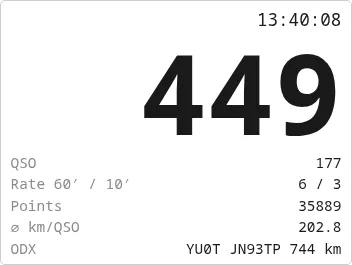
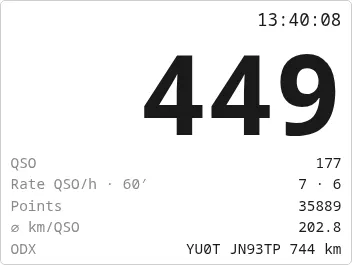
Review fixes for the CQ repeat and macros; docs for the contest notes
- CQ repeat only in RUN (the S&P slot is "{CALL} DE {MYCALL}"); it ends when a CQ
  sends nothing, so it can't hang "on".
- Macro-empty and dropped-character notices show at once with the macros in the strip.
- Esc on the log's other screens also stops the radio's voice memory; help and the
  manual take F5–F12 / Esc too.
- The macro editor in Settings in F-key order, as the strip.
- CHANGELOG [Unreleased], help, manual (cs/en) and its QSO list, contest panel and
  keyer screenshots.

diff --git a/web/public/manual/en.html b/web/public/manual/en.html
@@ -94,7 +94,7 @@
 </div>
 <p>In a VHF contest the <b>QRV</b> chip shows the other bands the station is usually on (from the database). Bands where you already have a QSO with it are struck out, so you see at once where to move it next.</p>
 <figure class="crop"><img src="img/en/logging-qrv.webp" alt="QRV bands" width="390" height="196" loading="lazy"><figcaption>OK1EM on 2 m: QRV on 70 cm up to 122 GHz, 23 cm and 3 cm already worked.</figcaption></figure>
-<p>A <b>dupe</b> turns the whole line black. A dupe is the same call on the same band and mode; in a VHF contest on the same band (any mode), in a satellite log on the same satellite. It can still be logged; in a VHF contest it scores 0 points.</p>
+<p>A <b>dupe</b> turns the whole line black. A dupe is the same call on the same band and mode; in a VHF contest on the same band (any mode), in a satellite log on the same satellite. It can still be logged; in a VHF contest it scores 0 points. In a VHF contest kQSO asks before logging a dupe; confirmed, the new QSO counts and the earlier one on the band becomes <b>ERROR</b> (see <a href="#contest">VHF contest</a>).</p>
 <figure class="crop"><img src="img/en/logging-dupe.webp" alt="Dupe" width="390" height="170" loading="lazy"><figcaption>OK1OTL is already in the log on 2 m: the line is inverted.</figcaption></figure>
 
 <h3 id="band">Changing band and mode</h3>
@@ -124,7 +124,7 @@
 <p>A single letter alone on the line, then Enter. The preview under the line shows what will happen before you press Enter.</p>
 <table>
 <tr><td><code>W</code></td><td>discard the unfinished QSO</td></tr>
-<tr><td><code>D</code></td><td>delete the last saved QSO (asks first)</td></tr>
+<tr><td><code>D</code></td><td>delete the last saved QSO (asks first); in a VHF contest it only strikes it out (ERROR)</td></tr>
 <tr><td><code>E</code></td><td>edit the last saved QSO</td></tr>
 <tr><td><code>H</code></td><td>help</td></tr>
 <tr><td><code>O</code></td><td>open the <a href="#chat">ON4KST chat</a> (VHF contest log)</td></tr>
@@ -134,7 +134,8 @@
 <p><b>Esc</b> clears the line being typed (e.g. a call you only looked up).</p>
 
 <h3>QSO list and editing</h3>
-<p><b>QSO n ›</b> opens the QSO list, newest first. Tap a QSO to edit or delete it. In a VHF contest the list has a band switch, points per QSO and the band's score line; at the top are <b>Map</b> and <b>Statistics</b>.</p>
+<p><b>QSO n ›</b> opens the QSO list, newest first. Tap a QSO to edit or delete it (in a VHF contest, strike it out). In a VHF contest the list has a band switch, points per QSO and the band's score line; at the top are <b>Map</b> and <b>Statistics</b>.</p>
+<p>The <b>search</b> line above the list filters the QSOs by part of the call, locator or a serial (sent or received): <code>OK1</code>, <code>JN6</code>, <code>018</code>. With a hardware keyboard the cursor is already in it; Enter with one QSO left opens it for editing, Esc clears the search. It stays when you come back from the edit.</p>
 <div class="figs">
 <figure class="phone"><img src="img/en/qsolist.webp" alt="QSO list" width="390" height="844" loading="lazy"><figcaption>QSO list with points and the band score.</figcaption></figure>
 <figure class="phone"><img src="img/en/qsoedit.webp" alt="Edit QSO" width="390" height="844" loading="lazy"><figcaption>Editing a QSO.</figcaption></figure>
@@ -151,6 +152,7 @@
 
 <h2 id="contest">4. VHF contest and ON4KST chat</h2>
 <p>A <b>VHF contest</b> log scores the QSOs (1 point per km between locator centres, IARU R1; VKV PA and FM pohár by large-square rings), checks dupes per band and numbers your QSOs. The next serial to give is boxed in the header; the numbering is shared by all bands.</p>
+<p>A VHF contest <b>never deletes</b> a QSO. The <code>D</code> command or <b>Strike out (ERROR)</b> in the QSO edit crosses it out: it stays in the log with its sent serial and 0 points, is an <code>ERROR</code> row in the EDI (so the sent serials stay in sequence, as REG1TEST wants) and counts for nothing — points, dupes, statistics, map, the 6-hour window, the ADIF export and Wavelog. <b>Restore</b> brings it back. A confirmed dupe does the same to the earlier QSO: the repeat counts.</p>
 <p>In the <b>6 hours</b> entry (on 2 m, 70 cm, 6 m and 4 m) kQSO keeps the six-hour window for each band separately:</p>
 <ul>
 <li>the window starts with the band's first QSO and the header shows the time left (<b>6H 0:29</b>);</li>
@@ -162,7 +164,7 @@
 <figure class="crop"><img src="img/en/logging-6h-header.webp" alt="6-hour header" width="390" height="48" loading="lazy"><figcaption>6 hours: 0:29 left.</figcaption></figure>
 
 <h3>Contest panel</h3>
-<p>On a tablet or computer in landscape, with the system keyboard or none (Settings → Keyboard for logging → None), kQSO shows the <b>contest panel</b> on the right: the number to give in big digits, the UTC clock, the band's QSO count, the rate over the last 60 and 10 minutes, points, the average and the ODX.</p>
+<p>On a tablet or computer in landscape, with the system keyboard or none (Settings → Keyboard for logging → None), kQSO shows the <b>contest panel</b> on the right: the number to give in big digits, the UTC clock, the band's QSO count, the rate, points, the average and the ODX. The <b>rate</b> is live: first the QSOs per hour from the band's last 10 (from the oldest of them to now, so it falls while nothing is worked), then the QSOs of the last 60 minutes.</p>
 <figure class="wide"><img src="img/en/panel-tablet.webp" alt="Contest panel on a tablet" width="1280" height="800" loading="lazy"><figcaption>Tablet in landscape with a hardware keyboard: recent QSOs on the left, the contest panel on the right.</figcaption></figure>
 <figure class="crop small"><img src="img/en/panel.webp" alt="Contest panel" width="352" height="265" loading="lazy"><figcaption>The contest panel.</figcaption></figure>
 
@@ -317,13 +319,14 @@
 <p>Tuning from the line, CW macros through the radio and voice memories work as with the other connections (see above).</p>
 
 <h3>M5 CW keyer</h3>
-<p>The <a href="https://keyer.ok1cdj.com/build.html">M5-ESP32-keyer</a> is a home-built keyer; parts, schematics and the firmware flasher are at <a href="https://keyer.ok1cdj.com/build.html">keyer.ok1cdj.com</a>. It connects over Bluetooth (Android and iOS apps, Chrome / Edge): Settings → M5 keyer → CW keying Yes → Connect. In CW the strip then offers the macros CQ, EX, TU, MY, LOC/REF and ?, and the header shows RUN or S&amp;P and the speed. With a radio that keys CW over CI-V you don't need the M5 keyer (see <a href="#radio">Radio</a>).</p>
+<p>The <a href="https://keyer.ok1cdj.com/build.html">M5-ESP32-keyer</a> is a home-built keyer; parts, schematics and the firmware flasher are at <a href="https://keyer.ok1cdj.com/build.html">keyer.ok1cdj.com</a>. It connects over Bluetooth (Android and iOS apps, Chrome / Edge): Settings → M5 keyer → CW keying Yes → Connect. In CW the strip then offers the macros CQ, EX, TU, ?, MY and LOC/REF (in the order of F5–F8, F11, F12; with a hardware keyboard each button shows its F key in its corner), and the header shows RUN or S&amp;P and the speed. With a radio that keys CW over CI-V you don't need the M5 keyer (see <a href="#radio">Radio</a>).</p>
 <ul>
-<li>Each profile has its own macros for RUN (I call CQ) and S&amp;P (I answer). Variables: <code>{CALL}</code> <code>{MYCALL}</code> <code>{MYLOC}</code> <code>{MYREF}</code> <code>{RST}</code> <code>{NR}</code> <code>{LOC}</code> <code>{REF}</code> <code>{HI}</code> (GM / GA / GE by local time).</li>
+<li>Each profile has its own macros for RUN (I call CQ) and S&amp;P (I answer). Variables: <code>{CALL}</code> <code>{MYCALL}</code> <code>{MYLOC}</code> <code>{MYREF}</code> <code>{RST}</code> <code>{NR}</code> <code>{LOC}</code> <code>{REF}</code> <code>{HI}</code> (GM / GA / GE by local time). The report and serial go out as cut numbers: <code>{RST}</code> 599 → 5NN, 559 → 55N, <code>{NR}</code> 018 → T18; the log and the EDI keep the digits.</li>
+<li><b>CQ repeat</b> (RUN): <code>A3</code> sets a 3 s gap after each CQ ends (A1–A30, remembered); F5 or CQ then calls round until Esc, STOP or another macro. The header shows <b>RUN ↻3</b>, inverted while calling. <code>A0</code> turns it off, <code>A</code> shows it.</li>
 <li><b>ESM</b> (as in N1MM): Enter sends the macros by the state of the QSO. Switch it on in Settings or with the <code>ESM</code> command.</li>
 <li>On the line: <code>R</code> / <code>S</code> RUN / S&amp;P mode, <code>S20</code> speed 20 WPM, <code>C</code> reconnect, <code>K PSE QRS</code> sends the text, <code>K</code> alone starts the CW keyboard (what you type goes on the air). Esc or STOP stops sending.</li>
 </ul>
-<figure class="crop"><img src="img/en/settings-keyer-on.webp" alt="M5 keyer" width="374" height="1540" loading="lazy"><figcaption>M5 keyer: speed, ESM and the VHF contest / RUN macros.</figcaption></figure>
+<figure class="crop"><img src="img/en/settings-keyer-on.webp" alt="M5 keyer" width="374" height="1539" loading="lazy"><figcaption>M5 keyer: speed, ESM and the VHF contest / RUN macros.</figcaption></figure>
 
 <h3 id="cw">CW decoder</h3>
 <p>kQSO decodes CW from the radio's audio with <a href="https://github.com/e04/web-deep-cw-decoder">DeepCW</a>, a neural network (by e04, MIT licence). The decoded text runs under the log's header, and a tap on a call, report, serial or locator puts it into the line. It runs in the <b>Android</b> and <b>iOS</b> apps and on the web in <b>Chrome</b> or <b>Edge</b> on a computer; Firefox and Safari don't have it.</p>
@@ -350,7 +353,7 @@
 <tr><td><kbd>Alt+M</kbd></td><td>mode CW → SSB → FM</td></tr>
 <tr><td><kbd>Alt+N</kbd> / <kbd>Alt+P</kbd></td><td>next / previous band</td></tr>
 <tr><td><kbd>Alt+L</kbd> / <kbd>Alt+Q</kbd></td><td>QSO list / back to the logs</td></tr>
-<tr><td><kbd>F5</kbd> <kbd>F6</kbd> <kbd>F7</kbd> <kbd>F8</kbd> <kbd>F11</kbd> <kbd>F12</kbd></td><td>macros CQ EX TU ? MY INFO; in SSB / FM F5–F8 the voice memories T1–T4</td></tr>
+<tr><td><kbd>F5</kbd> <kbd>F6</kbd> <kbd>F7</kbd> <kbd>F8</kbd> <kbd>F11</kbd> <kbd>F12</kbd></td><td>macros CQ EX TU ? MY INFO; in SSB / FM F5–F8 the voice memories T1–T4. They also work in the chat, map, QSO list, statistics and help; Esc stops sending there</td></tr>
 <tr><td><kbd>PgUp</kbd> / <kbd>PgDn</kbd></td><td>CW speed ±2 WPM</td></tr>
 <tr><td><kbd>Alt+R</kbd> <kbd>Alt+S</kbd> <kbd>Alt+C</kbd> <kbd>Alt+K</kbd></td><td>RUN / S&amp;P / connect the keyer / CW keyboard</td></tr>
 <tr><td><kbd>Ctrl+M</kbd></td><td>ESM on / off</td></tr>

diff --git a/web/public/manual/cs.html b/web/public/manual/cs.html
@@ -94,7 +94,7 @@
 </div>
 <p>Ve VKV závodě ukáže štítek <b>QRV</b> další pásma, na kterých stanice bývá (z databáze). Pásma, kde už s ní spojení máš, jsou přeškrtnutá, takže hned vidíš, kam ji ještě přetáhnout.</p>
 <figure class="crop"><img src="img/cs/logging-qrv.webp" alt="QRV pásma" width="390" height="196" loading="lazy"><figcaption>OK1EM na 2 m: QRV i na 70 cm až 122 GHz, 23 cm a 3 cm už uděláno.</figcaption></figure>
-<p><b>Duplicita</b> zčerná celý řádek. Duplicita je stejná značka na stejném pásmu a módu; ve VKV závodě na stejném pásmu (na módu nezáleží), v satelitním logu na stejné družici. Zapsat ji jde, ve VKV závodě má 0 bodů.</p>
+<p><b>Duplicita</b> zčerná celý řádek. Duplicita je stejná značka na stejném pásmu a módu; ve VKV závodě na stejném pásmu (na módu nezáleží), v satelitním logu na stejné družici. Zapsat ji jde, ve VKV závodě má 0 bodů. Ve VKV závodě se kQSO před zapsáním duplicity zeptá; po potvrzení platí nové spojení a to předchozí na pásmu se označí jako <b>ERROR</b> (viz <a href="#contest">VKV závod</a>).</p>
 <figure class="crop"><img src="img/cs/logging-dupe.webp" alt="Duplicita" width="390" height="170" loading="lazy"><figcaption>OK1OTL už v logu na 2 m je: řádek je inverzní.</figcaption></figure>
 
 <h3 id="band">Přepnutí pásma a módu</h3>
@@ -124,7 +124,7 @@
 <p>Jedno písmeno samotné na řádku a Enter. Náhled pod řádkem ukáže, co se stane, ještě před Enterem.</p>
 <table>
 <tr><td><code>W</code></td><td>zahodí rozepsané spojení</td></tr>
-<tr><td><code>D</code></td><td>smaže poslední zapsané spojení (nejdřív se zeptá)</td></tr>
+<tr><td><code>D</code></td><td>smaže poslední zapsané spojení (nejdřív se zeptá); ve VKV závodě ho jen zneplatní (ERROR)</td></tr>
 <tr><td><code>E</code></td><td>upraví poslední zapsané spojení</td></tr>
 <tr><td><code>H</code></td><td>nápověda</td></tr>
 <tr><td><code>O</code></td><td>otevře <a href="#chat">ON4KST chat</a> (log VKV závodu)</td></tr>
@@ -134,7 +134,8 @@
 <p><b>Esc</b> smaže rozepsaný řádek (třeba značku, kterou si jen ověřuješ v logu).</p>
 
 <h3>Seznam QSO a úprava</h3>
-<p><b>QSO n ›</b> otevře seznam spojení, nejnovější nahoře. Klepnutím na spojení ho upravíš nebo smažeš. Ve VKV závodě má seznam přepínač pásem, body u každého spojení a řádek se skóre pásma; nahoře jsou tlačítka <b>Mapa</b> a <b>Statistika</b>.</p>
+<p><b>QSO n ›</b> otevře seznam spojení, nejnovější nahoře. Klepnutím na spojení ho upravíš nebo smažeš (ve VKV závodě zneplatníš). Ve VKV závodě má seznam přepínač pásem, body u každého spojení a řádek se skóre pásma; nahoře jsou tlačítka <b>Mapa</b> a <b>Statistika</b>.</p>
+<p>Řádek <b>hledání</b> nad seznamem filtruje spojení podle části značky, lokátoru nebo čísla (odeslaného i přijatého): <code>OK1</code>, <code>JN6</code>, <code>018</code>. S hardwarovou klávesnicí v něm je kurzor hned; Enter, když zbude jediné spojení, ho otevře k úpravě, Esc hledání smaže. Po návratu z úpravy hledání zůstane.</p>
 <div class="figs">
 <figure class="phone"><img src="img/cs/qsolist.webp" alt="Seznam QSO" width="390" height="844" loading="lazy"><figcaption>Seznam QSO s body a skóre pásma.</figcaption></figure>
 <figure class="phone"><img src="img/cs/qsoedit.webp" alt="Úprava QSO" width="390" height="844" loading="lazy"><figcaption>Úprava spojení.</figcaption></figure>
@@ -151,6 +152,7 @@
 
 <h2 id="contest">4. VKV závod a ON4KST chat</h2>
 <p>Log s profilem <b>VKV závod</b> počítá body (1 bod za km mezi středy lokátorů podle IARU R1; VKV PA a FM pohár po prstencích velkých čtverců), hlídá duplicity po pásmech a čísluje tvoje spojení. Další odesílané číslo je v hlavičce v rámečku; číslování je společné pro všechna pásma.</p>
+<p>Ve VKV závodě se spojení <b>nikdy nemaže</b>. Příkaz <code>D</code> nebo <b>Zneplatnit (ERROR)</b> v úpravě spojení ho přeškrtne: zůstane v logu se svým odeslaným číslem a 0 body, v EDI je jako řádek <code>ERROR</code> (aby odeslaná čísla šla po sobě, jak chce REG1TEST) a nepočítá se do bodů, duplicit, statistiky, mapy, okna 6 hodin ani do exportu ADIF a Wavelogu. <b>Obnovit</b> ho vrátí. Stejně dopadne předchozí spojení, když potvrdíš duplicitu: platí to opakované.</p>
 <p>V kategorii <b>6 hodin</b> (na 2 m, 70 cm, 6 m a 4 m) hlídá kQSO šestihodinové okno pro každé pásmo zvlášť:</p>
 <ul>
 <li>okno začíná prvním spojením na pásmu a hlavička ukazuje zbývající čas (<b>6H 0:29</b>);</li>
@@ -162,7 +164,7 @@
 <figure class="crop"><img src="img/cs/logging-6h-header.webp" alt="Hlavička 6h" width="390" height="48" loading="lazy"><figcaption>6 hodin: zbývá 0:29.</figcaption></figure>
 
 <h3>Závodní panel</h3>
-<p>Na tabletu nebo počítači na šířku, se systémovou klávesnicí nebo bez klávesnice (Nastavení → Klávesnice pro logování → Žádná), ukáže kQSO vpravo <b>závodní panel</b>: velké číslo, které dáváš protistanici, hodiny UTC, počet QSO na pásmu, rate za posledních 60 a 10 minut, body, průměr a ODX.</p>
+<p>Na tabletu nebo počítači na šířku, se systémovou klávesnicí nebo bez klávesnice (Nastavení → Klávesnice pro logování → Žádná), ukáže kQSO vpravo <b>závodní panel</b>: velké číslo, které dáváš protistanici, hodiny UTC, počet QSO na pásmu, rate, body, průměr a ODX. <b>Rate</b> je živý: první číslo je QSO za hodinu z posledních 10 spojení na pásmu (od nejstaršího z nich do teď, takže bez spojení klesá), druhé počet QSO za posledních 60 minut.</p>
 <figure class="wide"><img src="img/cs/panel-tablet.webp" alt="Závodní panel na tabletu" width="1280" height="800" loading="lazy"><figcaption>Tablet na šířku s hardwarovou klávesnicí: poslední spojení vlevo, závodní panel vpravo.</figcaption></figure>
 <figure class="crop small"><img src="img/cs/panel.webp" alt="Závodní panel" width="352" height="265" loading="lazy"><figcaption>Závodní panel.</figcaption></figure>
 
@@ -317,9 +319,10 @@
 <p>Ladění z řádku, CW makra přes rádio a hlasové paměti fungují stejně jako u ostatních připojení (viz výše).</p>
 
 <h3>CW klíčovač M5</h3>
-<p>Klíčovač <a href="https://keyer.ok1cdj.com/build.html">M5-ESP32-keyer</a> je klíčovač na stavbu; díly, schémata a nahrání firmwaru najdeš na <a href="https://keyer.ok1cdj.com/build.html">keyer.ok1cdj.com</a>. Připojuje se přes Bluetooth (aplikace pro Android a iOS, Chrome / Edge): Nastavení → Klíčovač M5 → CW klíčování Ano → Připojit. V CW pak lišta nabízí makra CQ, EX, TU, MY, LOC/REF a ?, hlavička ukazuje RUN nebo S&amp;P a rychlost. S rádiem, které klíčuje CW přes CI-V, klíčovač M5 nepotřebuješ (viz <a href="#radio">Rádio</a>).</p>
+<p>Klíčovač <a href="https://keyer.ok1cdj.com/build.html">M5-ESP32-keyer</a> je klíčovač na stavbu; díly, schémata a nahrání firmwaru najdeš na <a href="https://keyer.ok1cdj.com/build.html">keyer.ok1cdj.com</a>. Připojuje se přes Bluetooth (aplikace pro Android a iOS, Chrome / Edge): Nastavení → Klíčovač M5 → CW klíčování Ano → Připojit. V CW pak lišta nabízí makra CQ, EX, TU, ?, MY a LOC/REF (v pořadí F5–F8, F11, F12; s hardwarovou klávesnicí má každé tlačítko svou F klávesu v rohu), hlavička ukazuje RUN nebo S&amp;P a rychlost. S rádiem, které klíčuje CW přes CI-V, klíčovač M5 nepotřebuješ (viz <a href="#radio">Rádio</a>).</p>
 <ul>
-<li>Makra má každý profil zvlášť pro RUN (dávám CQ) a S&amp;P (odpovídám). Proměnné: <code>{CALL}</code> <code>{MYCALL}</code> <code>{MYLOC}</code> <code>{MYREF}</code> <code>{RST}</code> <code>{NR}</code> <code>{LOC}</code> <code>{REF}</code> <code>{HI}</code> (GM / GA / GE podle místního času).</li>
+<li>Makra má každý profil zvlášť pro RUN (dávám CQ) a S&amp;P (odpovídám). Proměnné: <code>{CALL}</code> <code>{MYCALL}</code> <code>{MYLOC}</code> <code>{MYREF}</code> <code>{RST}</code> <code>{NR}</code> <code>{LOC}</code> <code>{REF}</code> <code>{HI}</code> (GM / GA / GE podle místního času). Report a číslo jdou zkráceně: <code>{RST}</code> 599 → 5NN, 559 → 55N, <code>{NR}</code> 018 → T18; v logu i v EDI zůstanou číslice.</li>
+<li><b>Opakování výzvy</b> (RUN): <code>A3</code> nastaví 3 s pauzu po konci výzvy (A1–A30, zapamatuje se), pak F5 nebo CQ volá dokola, dokud nedáš Esc, STOP nebo jiné makro. Hlavička ukazuje <b>RUN ↻3</b>, při volání inverzně. <code>A0</code> vypne, <code>A</code> ukáže nastavení.</li>
 <li><b>ESM</b> (jako v N1MM): Enter posílá makra podle stavu spojení. Zapíná se v Nastavení nebo příkazem <code>ESM</code>.</li>
 <li>Na řádku: <code>R</code> / <code>S</code> režim RUN / S&amp;P, <code>S20</code> rychlost 20 WPM, <code>C</code> znovu připojit, <code>K PSE QRS</code> odešle text, samotné <code>K</code> zapne CW klávesnici (co píšeš, jde do éteru). Esc nebo STOP vysílání zastaví.</li>
 </ul>
@@ -350,7 +353,7 @@
 <tr><td><kbd>Alt+M</kbd></td><td>mód CW → SSB → FM</td></tr>
 <tr><td><kbd>Alt+N</kbd> / <kbd>Alt+P</kbd></td><td>další / předchozí pásmo</td></tr>
 <tr><td><kbd>Alt+L</kbd> / <kbd>Alt+Q</kbd></td><td>seznam QSO / zpět na logy</td></tr>
-<tr><td><kbd>F5</kbd> <kbd>F6</kbd> <kbd>F7</kbd> <kbd>F8</kbd> <kbd>F11</kbd> <kbd>F12</kbd></td><td>makra CQ EX TU ? MY INFO; v SSB / FM F5–F8 hlasové paměti T1–T4</td></tr>
+<tr><td><kbd>F5</kbd> <kbd>F6</kbd> <kbd>F7</kbd> <kbd>F8</kbd> <kbd>F11</kbd> <kbd>F12</kbd></td><td>makra CQ EX TU ? MY INFO; v SSB / FM F5–F8 hlasové paměti T1–T4. Fungují i v chatu, na mapě, v seznamu QSO, statistice a nápovědě; Esc tam vysílání zastaví</td></tr>
 <tr><td><kbd>PgUp</kbd> / <kbd>PgDn</kbd></td><td>rychlost CW ±2 WPM</td></tr>
 <tr><td><kbd>Alt+R</kbd> <kbd>Alt+S</kbd> <kbd>Alt+C</kbd> <kbd>Alt+K</kbd></td><td>RUN / S&amp;P / připojit klíčovač / CW klávesnice</td></tr>
 <tr><td><kbd>Ctrl+M</kbd></td><td>ESM zapnout / vypnout</td></tr>

diff --git a/web/src/ui/screens/help.ts b/web/src/ui/screens/help.ts
@@ -123,7 +123,7 @@ const EN: readonly Section[] = [
       { text: 'Macro variables: {CALL} their call, {MYCALL} {MYLOC} {MYREF} from the log header ({MYREF} all your references), {RST} sent report, {NR} my next serial (001) — both as cut numbers: 599 → 5NN, 559 → 55N, 018 → T18; {LOC} {REF} their locator / reference, {HI} greeting by local time — GM until noon, GA until 18:00, GE until midnight.' },
       { code: 'R ⏎ / S ⏎', text: 'RUN / S&P mode (only while CW keying is on).' },
       { code: 'S20 ⏎', text: 'Speed 20 WPM until the keyer disconnects; on connect the default speed from Settings is sent.' },
-      { code: 'A3 ⏎', text: 'CQ repeat: F5 (or CQ / an ESM CQ) then calls round, the next CQ 3 s after one ends (A1–A30). Esc, STOP or another macro ends it; the header shows RUN ↻3, inverted while calling. A0 ⏎ off, A ⏎ shows the setting.' },
+      { code: 'A3 ⏎', text: 'CQ repeat (RUN): F5 (or CQ / an ESM CQ) then calls round, the next CQ 3 s after one ends (A1–A30). Esc, STOP or another macro ends it; the header shows RUN ↻3, inverted while calling. A0 ⏎ off, A ⏎ shows the setting.' },
       { code: 'C ⏎', text: 'Connect the keyer again after it dropped (✕ next to RUN / S&P in the header). Tapping RUN / S&P does the same.' },
       { code: 'ESM ⏎', text: 'ESM on / off (header RUN·ESM): Enter sends the macros as in N1MM. RUN: empty ⏎ = CQ, call ⏎ = EXCH, filling in ⏎ = nothing, empty ⏎ = TU + save. S&P: empty ⏎ = my call, call ⏎ = my call, empty ⏎ = EXCH + save. VHF contest: an empty ⏎ without the number / locator asks NR ? / LOC ? / NR LOC ? and keeps the QSO open.' },
       { code: 'K PSE QRS ⏎', text: 'Send the text once.' },
@@ -167,8 +167,8 @@ const EN: readonly Section[] = [
       { code: 'Alt+X', text: 'Take the locator the database offers (+ LOC).' },
       { code: 'Alt+M', text: 'Mode CW → SSB → FM.' },
       { code: 'Alt+N / P', text: 'Next / previous band.' },
-      { code: 'Alt+L / Alt+Q', text: 'QSO list / back to the logs.' },
-      { code: 'F5 F6 F7 F8 F11 F12', text: 'Macros CQ EX TU ? MY INFO (CW, keyer connected); F5–F8 in SSB / FM the radio\'s voice memories T1–T4. They work in the chat, map and QSO list too, and Esc stops there.' },
+      { code: 'Alt+L / Alt+Q', text: 'QSO list / back to the logs. In the QSO list type to search: part of a call, locator or a serial (OK1, JN6, 018); Enter with one QSO left opens it, Esc clears.' },
+      { code: 'F5 F6 F7 F8 F11 F12', text: 'Macros CQ EX TU ? MY INFO (CW, keyer connected); F5–F8 in SSB / FM the radio\'s voice memories T1–T4. They work in the chat, map, QSO list and help too, and Esc stops there. With a hardware keyboard each macro button shows its F key.' },
       { code: 'PgUp / PgDn', text: 'CW speed ±2 WPM.' },
       { code: 'Alt+R S C K', text: 'RUN / S&P / connect the keyer / CW keyboard (CW keying on). Esc = STOP.' },
       { code: 'Ctrl+M', text: 'ESM on / off (CW keying on), as ESM ⏎.' },
@@ -277,7 +277,7 @@ const CS: readonly Section[] = [
       { text: 'Proměnné v makrech: {CALL} značka protistanice, {MYCALL} {MYLOC} {MYREF} z hlavičky logu ({MYREF} všechny tvoje reference), {RST} odesílaný report, {NR} moje další pořadové číslo (001) — obojí zkráceně: 599 → 5NN, 559 → 55N, 018 → T18; {LOC} {REF} lokátor / reference protistanice, {HI} pozdrav podle místního času — GM do poledne, GA do 18:00, GE do půlnoci.' },
       { code: 'R ⏎ / S ⏎', text: 'Režim RUN / S&P (jen se zapnutým CW klíčováním).' },
       { code: 'S20 ⏎', text: 'Rychlost 20 WPM do odpojení klíčovače; po připojení se pošle výchozí rychlost z Nastavení.' },
-      { code: 'A3 ⏎', text: 'Opakování výzvy: F5 (nebo CQ / CQ z ESM) pak volá dokola, další CQ 3 s po konci předchozí (A1–A30). Ukončí Esc, STOP nebo jiné makro; hlavička ukáže RUN ↻3, inverzně, když volá. A0 ⏎ vypne, A ⏎ ukáže nastavení.' },
+      { code: 'A3 ⏎', text: 'Opakování výzvy (RUN): F5 (nebo CQ / CQ z ESM) pak volá dokola, další CQ 3 s po konci předchozí (A1–A30). Ukončí Esc, STOP nebo jiné makro; hlavička ukáže RUN ↻3, inverzně, když volá. A0 ⏎ vypne, A ⏎ ukáže nastavení.' },
       { code: 'C ⏎', text: 'Znovu připojí klíčovač, když spadl (✕ u RUN / S&P v hlavičce). Totéž udělá klepnutí na RUN / S&P.' },
       { code: 'ESM ⏎', text: 'ESM zap / vyp (v hlavičce RUN·ESM): Enter posílá makra jako v N1MM. RUN: prázdný ⏎ = CQ, značka ⏎ = EXCH, doplnění ⏎ = nic, prázdný ⏎ = TU + uložení. S&P: prázdný ⏎ = moje značka, značka ⏎ = moje značka, prázdný ⏎ = EXCH + uložení. VKV závod: prázdný ⏎ bez čísla / lokátoru se zeptá NR ? / LOC ? / NR LOC ? a QSO nechá otevřené.' },
       { code: 'K PSE QRS ⏎', text: 'Jednou odešle napsaný text.' },
@@ -321,8 +321,8 @@ const CS: readonly Section[] = [
       { code: 'Alt+X', text: 'Vzít lokátor nabídnutý z databáze (+ LOC).' },
       { code: 'Alt+M', text: 'Mód CW → SSB → FM.' },
       { code: 'Alt+N / P', text: 'Další / předchozí pásmo.' },
-      { code: 'Alt+L / Alt+Q', text: 'Seznam QSO / zpět na logy.' },
-      { code: 'F5 F6 F7 F8 F11 F12', text: 'Makra CQ EX TU ? MY INFO (CW, připojený klíčovač); F5–F8 v SSB / FM hlasové paměti rádia T1–T4. Fungují i v chatu, na mapě a v seznamu QSO, Esc tam zastaví.' },
+      { code: 'Alt+L / Alt+Q', text: 'Seznam QSO / zpět na logy. V seznamu QSO piš a hledej: část značky, lokátoru nebo čísla (OK1, JN6, 018); Enter s jediným QSO ho otevře, Esc hledání smaže.' },
+      { code: 'F5 F6 F7 F8 F11 F12', text: 'Makra CQ EX TU ? MY INFO (CW, připojený klíčovač); F5–F8 v SSB / FM hlasové paměti rádia T1–T4. Fungují i v chatu, na mapě, v seznamu QSO a v nápovědě, Esc tam zastaví. S HW klávesnicí má každé tlačítko makra v rohu svou F klávesu.' },
       { code: 'PgUp / PgDn', text: 'Rychlost CW ±2 WPM.' },
       { code: 'Alt+R S C K', text: 'RUN / S&P / připojit klíčovač / CW klávesnice (zapnuté CW klíčování). Esc = STOP.' },
       { code: 'Ctrl+M', text: 'ESM zap / vyp (zapnuté CW klíčování), jako ESM ⏎.' },

diff --git a/web/src/ui/screens/logging.ts b/web/src/ui/screens/logging.ts
@@ -860,11 +860,12 @@ export class LoggingScreen implements Screen {
     // An empty macro (INFO in the general profile until filled in) would do nothing silently.
     if (text === '') {
       this.notice = t('logging.macroEmpty', { slot: slot === 'INFO' ? infoLabel(this.meta.profile) : slot })
-      this.renderStrip()
+      this.renderAll() // the strip, or the preview line while the macros hold the strip
       return
     }
-    // CQ with a repeat set (A3): calling round until Esc / STOP or another macro.
-    if (slot === 'CQ' && this.keyer.repeatGap > 0) {
+    // CQ in RUN with a repeat set (A3): calling round until Esc / STOP or another macro.
+    // In S&P the slot is "{CALL} DE {MYCALL}" — never round.
+    if (slot === 'CQ' && this.keyer.mode === 'run' && this.keyer.repeatGap > 0) {
       this.keyer.startRepeat(() => (this.keyerOn() ? this.macroText('CQ') : ''))
       return
     }
@@ -903,7 +904,7 @@ export class LoggingScreen implements Screen {
     const dropped = await this.keyer.send(text)
     if (dropped.length > 0) {
       this.notice = t('logging.keyerDropped', { chars: dropped.join(' ') })
-      this.renderStrip()
+      this.renderAll()
     }
   }
 
@@ -1129,8 +1130,8 @@ export class LoggingScreen implements Screen {
       const wpm = this.keyer.wpm
       const state = link === 'off' ? ' ✕' : link === 'connecting' ? ' …' : wpm !== undefined ? ` ${wpm}` : ''
       // Keyboard mode: TX instead of RUN / S&P, inverted. ·ESM = Enter sends the macros.
-      // ↻3 = CQ repeat set (A3), inverted while calling round.
-      const repeat = this.keyer.repeatGap > 0 ? ` ↻${this.keyer.repeatGap}` : ''
+      // ↻3 = CQ repeat set (A3; RUN only), inverted while calling round.
+      const repeat = this.keyer.mode === 'run' && this.keyer.repeatGap > 0 ? ` ↻${this.keyer.repeatGap}` : ''
       const what = this.txMode ? 'TX' : `${this.keyer.mode === 'run' ? 'RUN' : 'S&P'}${this.keyer.esm ? '·ESM' : ''}${repeat}`
       const label = `${what}${state}`
       const cls = link !== 'on' ? 'hdr-keyer hdr-keyer--off' : this.txMode || this.keyer.repeating ? 'hdr-keyer hdr-keyer--tx' : 'hdr-keyer'

diff --git a/web/src/ui/i18n.ts b/web/src/ui/i18n.ts
@@ -206,7 +206,7 @@ const en = {
   'settings.keyerSpeed': 'Default speed',
   'settings.keyerSpeedHint': 'Sent on every connect. S20 on the logging line = 20 WPM until disconnect.',
   'settings.keyerMacros': 'Macros',
-  'settings.keyerMacrosHint': 'Per profile and RUN / S&P. Variables: {CALL} {MYCALL} {MYLOC} {MYREF} {RST} {NR} {LOC} {REF} {HI} (GM / GA / GE). Prosigns as <AR> <SK> <BT> <KN>.',
+  'settings.keyerMacrosHint': 'Per profile and RUN / S&P. Variables: {CALL} {MYCALL} {MYLOC} {MYREF} {RST} {NR} {LOC} {REF} {HI} (GM / GA / GE); {RST} and {NR} go out cut (5NN, T18). Prosigns as <AR> <SK> <BT> <KN>.',
   'settings.keyerReset': 'Reset to defaults',
   'settings.keyerEsm': 'ESM — Enter sends the macros',
   'settings.keyerEsmHint': 'As in N1MM. RUN: empty Enter = CQ, Enter with the call = EXCH, empty Enter = TU + save. S&P: empty Enter = my call, Enter with the call = my call, empty Enter = EXCH + save. VHF contest without the number / locator: NR ? / LOC ?. E on the logging line switches it too.',
@@ -659,7 +659,7 @@ const cs: Record<keyof typeof en, string> = {
   'settings.keyerSpeed': 'Výchozí rychlost',
   'settings.keyerSpeedHint': 'Pošle se po každém připojení. S20 na logovacím řádku = 20 WPM do odpojení.',
   'settings.keyerMacros': 'Makra',
-  'settings.keyerMacrosHint': 'Pro každý profil a RUN / S&P. Proměnné: {CALL} {MYCALL} {MYLOC} {MYREF} {RST} {NR} {LOC} {REF} {HI} (GM / GA / GE). Zkratky jako <AR> <SK> <BT> <KN>.',
+  'settings.keyerMacrosHint': 'Pro každý profil a RUN / S&P. Proměnné: {CALL} {MYCALL} {MYLOC} {MYREF} {RST} {NR} {LOC} {REF} {HI} (GM / GA / GE); {RST} a {NR} jdou zkráceně (5NN, T18). Zkratky jako <AR> <SK> <BT> <KN>.',
   'settings.keyerReset': 'Obnovit výchozí',
   'settings.keyerEsm': 'ESM — Enter posílá makra',
   'settings.keyerEsmHint': 'Jako v N1MM. RUN: prázdný Enter = CQ, Enter se značkou = EXCH, prázdný Enter = TU + uložení. S&P: prázdný Enter = moje značka, Enter se značkou = moje značka, prázdný Enter = EXCH + uložení. VKV závod bez čísla / lokátoru: NR ? / LOC ?. Přepíná i E na logovacím řádku.',

diff --git a/web/src/ui/app.ts b/web/src/ui/app.ts
@@ -27,8 +27,9 @@ import { KstController } from './kst'
 import { RigController } from './rig'
 import { CwDecoderController } from './cw/decoder'
 
-// The open log's screens around the logging one: F5–F12 and Esc (STOP) work there too.
-const LOG_SCREENS: ReadonlySet<string> = new Set(['chat', 'map', 'qsolist', 'stats', 'qsoedit'])
+// The open log's screens around the logging one: F5–F12 and Esc (STOP) work there too
+// (help / manual: a CQ repeat goes on there, so Esc must stop it).
+const LOG_SCREENS: ReadonlySet<string> = new Set(['chat', 'map', 'qsolist', 'stats', 'qsoedit', 'help', 'manual'])
 
 export interface Screen {
   mount(root: HTMLElement): void | Promise<void>
@@ -80,10 +81,17 @@ export class App {
   }
 
   /** Chat, map, QSO list …: the log's macros on F5–F12 (the logging screen handles its
-   *  own); Esc stops the keyer while it sends or calls round. */
+   *  own); Esc stops the keyer while it sends or calls round, or the radio's voice memory. */
   private onLogScreenKey(e: KeyboardEvent): void {
     if (!LOG_SCREENS.has(this.currentName)) return
-    if (e.key === 'Escape' && !e.altKey && !e.ctrlKey && !e.metaKey && (this.keyer.sending || this.keyer.repeating)) {
+    const plainEsc = e.key === 'Escape' && !e.altKey && !e.ctrlKey && !e.metaKey
+    if (plainEsc && this.rig.voicePlaying) {
+      e.preventDefault()
+      e.stopPropagation()
+      void this.rig.stopVoice()
+      return
+    }
+    if (plainEsc && (this.keyer.sending || this.keyer.repeating)) {
       e.preventDefault()
       e.stopPropagation()
       void this.keyer.stop()

diff --git a/web/src/core/keyer.ts b/web/src/core/keyer.ts
@@ -250,7 +250,7 @@ export function sanitize(text: string): { text: string; dropped: string[] } {
 // NR? / LOC? / NRLOC?: ESM only — asked when an empty Enter can't save a VHF contest QSO
 // for the missing number / locator; not in the strip.
 export type MacroSlot = 'CQ' | 'EXCH' | 'TU' | 'MYCALL' | 'INFO' | '?' | 'NR?' | 'LOC?' | 'NRLOC?'
-export const MACRO_SLOTS: readonly MacroSlot[] = ['CQ', 'EXCH', 'TU', 'MYCALL', 'INFO', '?', 'NR?', 'LOC?', 'NRLOC?']
+export const MACRO_SLOTS: readonly MacroSlot[] = ['CQ', 'EXCH', 'TU', '?', 'MYCALL', 'INFO', 'NR?', 'LOC?', 'NRLOC?'] // the strip's order: F5–F8, F11, F12
 export const ESM_ONLY_SLOTS: readonly MacroSlot[] = ['NR?', 'LOC?', 'NRLOC?']
 export type RunMode = 'run' | 'sp'
 export type MacroSet = Readonly<Record<MacroSlot, string>>

diff --git a/web/src/ui/keyer.ts b/web/src/ui/keyer.ts
@@ -313,6 +313,9 @@ export class KeyerController implements KeyerCivHost {
     const text = this.repeatText?.() ?? ''
     if (text === '' || !this.connected) return this.stopRepeat()
     await this.sendOut(text)
+    // Nothing went out (no keyable character, the send failed): no DONE will come to go
+    // round — end it. A DONE that came already has set the timer.
+    if (!this.sending && this.repeatTimer === undefined) this.stopRepeat()
   }
 
   async setMode(mode: RunMode): Promise<void> {

diff --git a/web/tests/ui/keyer-repeat.test.ts b/web/tests/ui/keyer-repeat.test.ts
@@ -130,4 +130,13 @@ describe('CQ repeat', () => {
     expect(keyer.repeating).toBe(false)
     expect(tr.sends).toEqual(['CQ', 'CQ', 'CQ'])
   })
+
+  it('a CQ with nothing to key ends it at once (no DONE would come)', async () => {
+    const { keyer, tr } = await setup()
+    await keyer.setRepeatGap(3)
+    keyer.startRepeat(() => 'ČŘ')
+    await vi.advanceTimersByTimeAsync(10)
+    expect(tr.sends).toEqual([])
+    expect(keyer.repeating).toBe(false)
+  })
 })

diff --git a/CHANGELOG.md b/CHANGELOG.md
@@ -4,6 +4,21 @@ What changed in each kQSO release: the web app (kqso.ok1cdj.com), the Android ap
 
 ## [Unreleased]
 
+### Added
+- **CQ repeat** for the CW keyer: `A3 ⏎` sets a 3 s gap after each CQ ends (A1–A30, remembered), `A0 ⏎` turns it off, `A ⏎` shows it. In RUN the CQ (F5, the CQ button or an ESM CQ) then calls round until Esc, STOP or another macro; the header shows `RUN ↻3`, inverted while calling, and STOP stays in the strip in the gap too.
+- **F5–F12 on every screen of the open log**: the chat, map, QSO list, statistics, QSO edit and help send the macros (or the radio's voice memories in SSB / FM) as the logging screen does; Esc stops the keyer / voice memory there.
+- **QSO list search**: a line on top filters by part of the call, locator or a serial (sent or received) — `OK1`, `JN6`, `018`; with the band filter; Enter with one QSO left opens it, Esc clears; kept on the way back from the edit.
+
+### Changed
+- **VHF contest: QSOs are never deleted.** `D` and the QSO edit strike the QSO out as **ERROR**: it stays in the log crossed out with its sent serial and 0 points, goes into the EDI as an `ERROR` row (REG1TEST, so the sent serials stay in sequence) and is left out of the ADIF export, the Wavelog push, the dupe check, the score, the statistics, the map and the 6-hour window; **Restore** brings it back. Other log types delete as before.
+- **Dupes in a VHF contest are confirmed**: Enter on a dupe asks first; logged, the new QSO counts and the earlier one on the band becomes ERROR.
+- **Cut numbers** in the CW macros: `{RST}` sends 9 as N (599 → 5NN, 559 → 55N), `{NR}` 0 as T (018 → T18). The log, EDI and ADIF keep the digits.
+- **Macro buttons in F-key order** (CQ EX TU ? MY LOC/REF/INF = F5–F8, F11, F12), the macro editor in Settings too; with a hardware keyboard each button shows its F key small in its corner.
+- **Contest panel rate is live**: QSOs per hour from the band's last 10 (falls while nothing is worked), then the QSOs of the last 60 minutes (`Rate QSO/h · 60′`).
+
+### Fixed
+- A notice (QSO discarded with Alt+W, ERROR …) no longer hides the keyer's macros or the voice memories until the next key: it shows on the preview line and the macros stay.
+
 ## [1.17] – 2026-10-30
 
 ### Added
